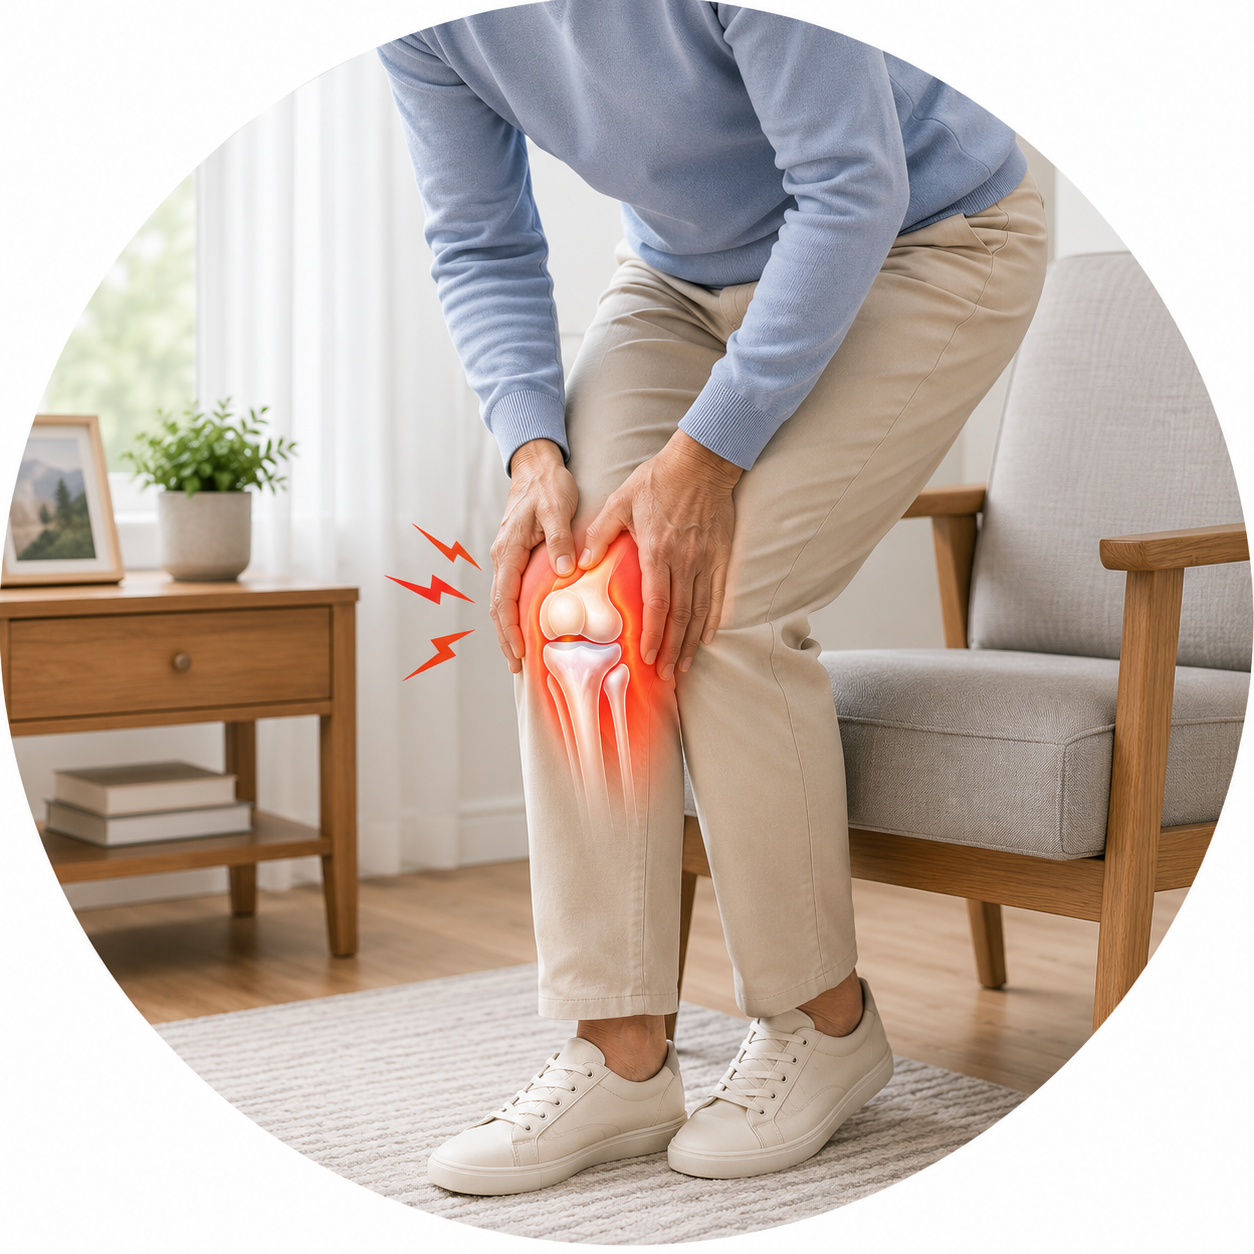
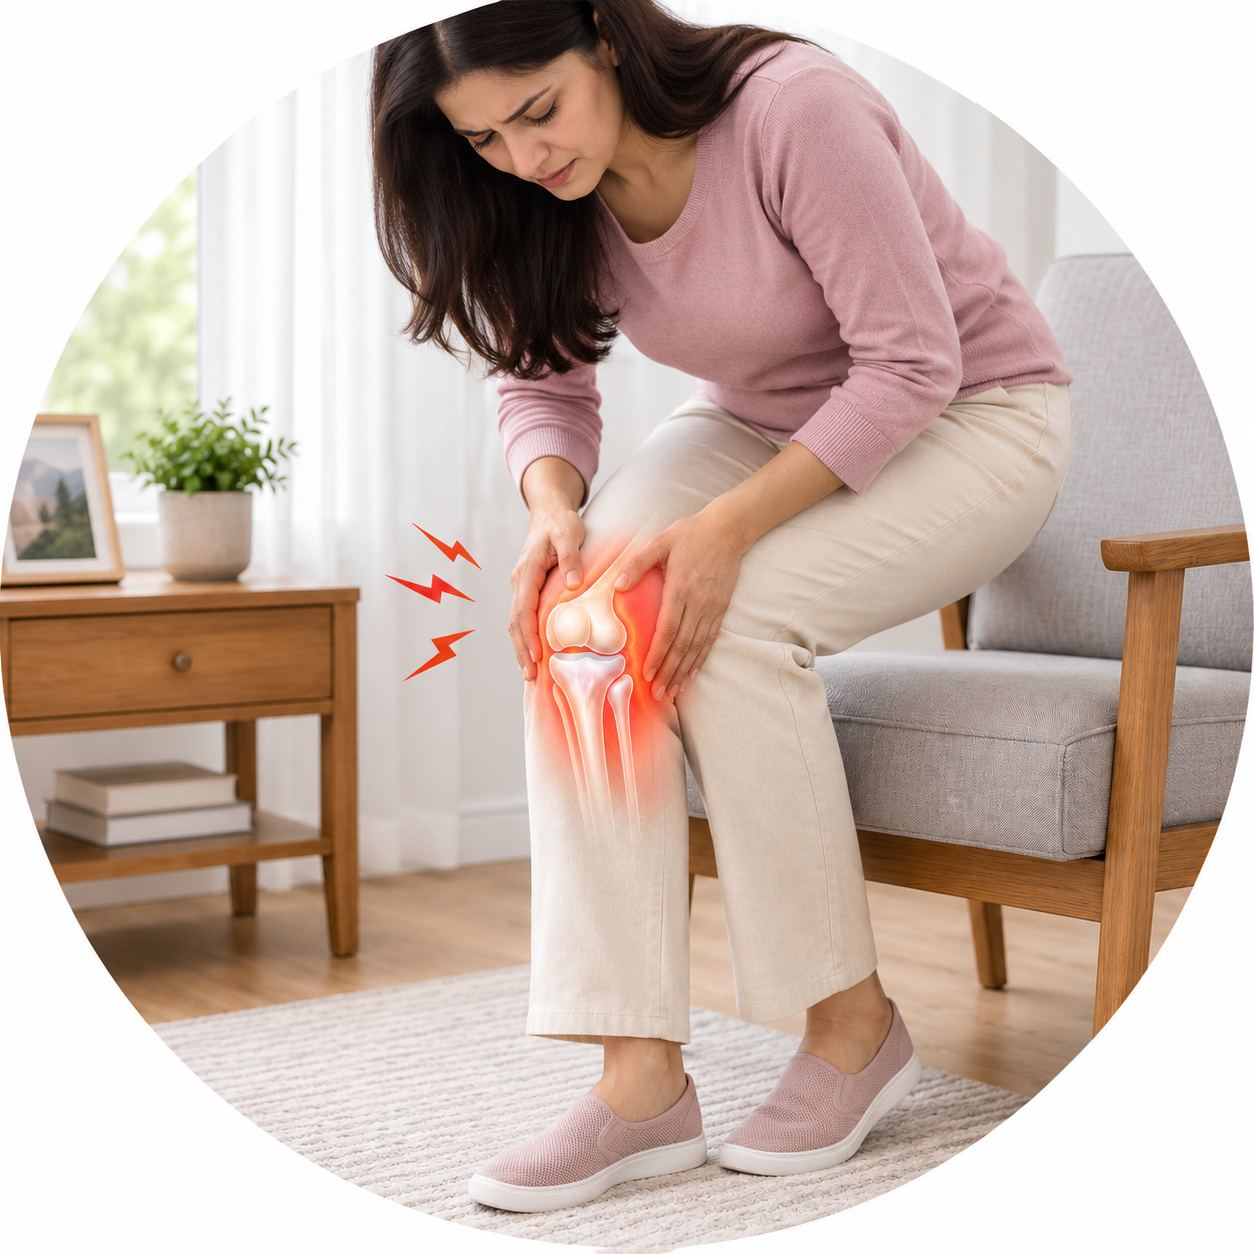
Initial commit

diff --git a/src/pages/Patient.tsx b/src/pages/Patient.tsx
@@ -5,7 +5,7 @@ import Footer from "@/components/layout/Footer";
 import ReferencesSection from "@/components/ReferencesSection";
 import patientLandingBg from "@/assets/patient landing.png";
 import patientLandingMobileBg from "@/assets/patient 2.png";
-import oaComparisonImage from "@/assets/OA.png";
+import oaComparisonImage from "@/assets/OA.jpeg";
 import symptomsImage from "@/assets/symptoms.png";
 import gradeStage1Image from "@/assets/stage 1.png";
 import gradeStage2Image from "@/assets/stage 2.png";
@@ -103,25 +103,25 @@ const oaSymptomHighlights = [
 const grades = [
   {
     k: "Grade I",
-    title: "Mild changes",
+    title: "Mild / Early Changes",
     text: "Early cartilage irritation with minimal pain.",
     image: gradeStage1Image,
   },
   {
     k: "Grade II",
-    title: "Moderate changes",
+    title: "Mild to Moderate Changes",
     text: "Cartilage damage begins; pain may increase with activity.",
     image: gradeStage2Image,
   },
   {
     k: "Grade III",
-    title: "Advanced changes",
+    title: "Moderate to Severe Changes",
     text: "Noticeable cartilage loss and inflammation; mobility reduces.",
     image: gradeStage3Image,
   },
   {
     k: "Grade IV",
-    title: "Severe changes",
+    title: "Severe/ End-stage",
     text: "Joint-space narrowing; significant pain and stiffness.",
     image: gradeStage4Image,
   },
@@ -632,11 +632,11 @@ export default function Patient() {
 
               <div
                 className={cn(
-                  "hidden md:block transition-all duration-700 ease-out delay-100",
+                  "block mt-8 md:mt-0 transition-all duration-700 ease-out delay-100",
                   oaInView ? "opacity-100 translate-y-0" : "opacity-0 translate-y-6",
                 )}
               >
-                <div className="relative md:h-[360px] lg:h-[520px]">
+                <div className="relative h-[280px] sm:h-[340px] md:h-[360px] lg:h-[520px]">
                   <img
                     src={oaComparisonImage}
                     alt="Healthy knee vs osteoarthritis comparison"
@@ -750,7 +750,7 @@ export default function Patient() {
               </div>
             </div>
 
-            <div className="mt-10 grid gap-6 sm:grid-cols-2 lg:grid-cols-4">
+            <div className="mt-10 grid gap-4 sm:gap-6 sm:grid-cols-2 lg:grid-cols-4 lg:gap-4 xl:gap-6">
               {grades.map((g, idx) => (
                 <div
                   key={g.k}
@@ -774,9 +774,9 @@ export default function Patient() {
                       loading="lazy"
                     />
                   </div>
-                  <div className="p-7 flex flex-col flex-1">
-                    <div className="text-sm font-semibold uppercase tracking-[0.18em] text-sky-700">{g.k}</div>
-                    <div className="mt-2 text-lg font-semibold text-slate-900">{g.title}</div>
+                  <div className="p-5 xl:p-6 flex flex-col flex-1">
+                    <div className="text-xs sm:text-sm font-semibold uppercase tracking-[0.18em] text-sky-700">{g.k}</div>
+                    <div className="mt-2 text-[14.5px] sm:text-[15px] xl:text-[17px] font-semibold text-slate-900 whitespace-nowrap tracking-tight">{g.title}</div>
                     <div className="mt-3 text-sm leading-relaxed text-slate-600 sm:text-base">{g.text}</div>
                   </div>
                 </div>
@@ -1117,7 +1117,7 @@ export default function Patient() {
             <div className="mx-auto max-w-4xl text-center mb-10 sm:mb-12">
               <div className="text-[11px] font-semibold tracking-[0.32em] text-sky-700/80 uppercase">PROCEDURAL OVERVIEW</div>
               <h2 className="mt-3 font-display text-2xl sm:text-3xl md:text-4xl font-semibold tracking-tight text-[#0b3a66]">
-                CiploStem® Handling & Administration Guide
+                Allogeneic Bone Marrow-Derived Mesenchymal Stem Cells
               </h2>
               <p className="mt-3 max-w-2xl mx-auto text-sm leading-relaxed text-slate-600 sm:text-base">
                 A comprehensive step-by-step visual overview of storage, preparation, and intra-articular administration.
@@ -1170,13 +1170,13 @@ export default function Patient() {
                 <div className="w-28 h-28 sm:w-32 sm:h-32 mb-6 rounded-full overflow-hidden shadow-lg ring-2 ring-sky-200/60 transition-transform duration-300 group-hover:scale-105 flex items-center justify-center bg-white">
                   <img
                     src={gmpImage}
-                    alt="GMP & GLP Compliant Manufacturing"
+                    alt="GMP Compliant Manufacturing"
                     className="w-full h-full object-cover rounded-full scale-[1.03]"
                   />
                 </div>
 
                 <h3 className="text-base sm:text-lg font-bold uppercase tracking-wider text-[#0b3a66] min-h-[50px] flex items-center justify-center">
-                  GMP & GLP COMPLIANT MANUFACTURING
+                  GMP COMPLIANT MANUFACTURING
                 </h3>
 
                 <div className="w-16 h-0.5 bg-sky-400 my-4 relative rounded-full">
@@ -1184,7 +1184,7 @@ export default function Patient() {
                 </div>
 
                 <p className="text-sm leading-relaxed text-slate-600 font-medium">
-                  Manufactured under state-of-the-art GMP-compliant conditions in GLP-certified laboratories ensuring the highest standards of quality, safety and consistency.<sup>10</sup>
+                  Manufactured under state-of-the-art GMP-compliant conditions ensuring the highest standards of quality, safety and consistency.<sup>10</sup>
                 </p>
               </div>
 
@@ -1232,6 +1232,40 @@ export default function Patient() {
                 <p className="text-sm leading-relaxed text-slate-600 font-medium">
                   Administered as a sterile, single intra-articular injection directly into the knee joint for a convenient and precise treatment.<sup>9,10</sup>
                 </p>
+              </div>
+            </div>
+
+            {/* Regulatory & Quality Abbreviations */}
+            <div className="mt-10 max-w-4xl mx-auto">
+              <div className="rounded-2xl bg-white/90 p-4 sm:p-5 ring-1 ring-sky-200/70 shadow-soft-md backdrop-blur-sm">
+                <div className="grid grid-cols-1 sm:grid-cols-3 gap-3 sm:gap-4">
+                  <div className="group flex items-center gap-3 px-4 py-3.5 rounded-xl bg-sky-50/70 ring-1 ring-sky-200/70 shadow-sm cursor-pointer transition-all duration-300 ease-out hover:-translate-y-1.5 hover:scale-[1.03] hover:bg-white hover:shadow-xl hover:shadow-sky-900/10 hover:ring-2 hover:ring-sky-400">
+                    <span className="shrink-0 px-2.5 py-1 rounded-md bg-[#0b3a66] text-white font-bold text-xs tracking-wider shadow-sm transition-all duration-300 group-hover:bg-[#0284c7] group-hover:scale-105">
+                      DCGI
+                    </span>
+                    <span className="text-xs sm:text-[13px] font-semibold text-slate-700 leading-snug transition-colors duration-300 group-hover:text-[#0b3a66]">
+                      Drugs Controller General of India
+                    </span>
+                  </div>
+
+                  <div className="group flex items-center gap-3 px-4 py-3.5 rounded-xl bg-sky-50/70 ring-1 ring-sky-200/70 shadow-sm cursor-pointer transition-all duration-300 ease-out hover:-translate-y-1.5 hover:scale-[1.03] hover:bg-white hover:shadow-xl hover:shadow-sky-900/10 hover:ring-2 hover:ring-sky-400">
+                    <span className="shrink-0 px-2.5 py-1 rounded-md bg-[#0b3a66] text-white font-bold text-xs tracking-wider shadow-sm transition-all duration-300 group-hover:bg-[#0284c7] group-hover:scale-105">
+                      CDSCO
+                    </span>
+                    <span className="text-xs sm:text-[13px] font-semibold text-slate-700 leading-snug transition-colors duration-300 group-hover:text-[#0b3a66]">
+                      Central Drugs Standard Control Organisation
+                    </span>
+                  </div>
+
+                  <div className="group flex items-center gap-3 px-4 py-3.5 rounded-xl bg-sky-50/70 ring-1 ring-sky-200/70 shadow-sm cursor-pointer transition-all duration-300 ease-out hover:-translate-y-1.5 hover:scale-[1.03] hover:bg-white hover:shadow-xl hover:shadow-sky-900/10 hover:ring-2 hover:ring-sky-400">
+                    <span className="shrink-0 px-2.5 py-1 rounded-md bg-[#0b3a66] text-white font-bold text-xs tracking-wider shadow-sm transition-all duration-300 group-hover:bg-[#0284c7] group-hover:scale-105">
+                      GMP
+                    </span>
+                    <span className="text-xs sm:text-[13px] font-semibold text-slate-700 leading-snug transition-colors duration-300 group-hover:text-[#0b3a66]">
+                      Good Manufacturing Practices
+                    </span>
+                  </div>
+                </div>
               </div>
             </div>
           </Container>

diff --git a/src/components/ReferencesSection.tsx b/src/components/ReferencesSection.tsx
@@ -2,29 +2,29 @@ import { useState } from "react";
 import { ChevronDown, ChevronUp, BookOpen } from "lucide-react";
 
 const references = [
-  "Knee Osteoarthritis. JAMA. 2024;332(22):1954.",
-  "Osteoarthritis: Epidemiology and Burden. Rheumatol Ther. 2022 Feb;9(1):151-174.",
-  "Inflammatory Processes in Knee OA. Front Immunol. 2024 Jun 4;15:1385006.",
-  "Knee OA Pathophysiology. J Pain Res. 2018 Oct 5;11:2189-2196.",
-  "Stem Cell Fundamentals. Orthop Rev (Pavia). 2022 Aug 25;14(3):37498.",
-  "Mesenchymal Stem Cells. Am J Orthop (Belle Mead NJ). 2016;45(5):280-326.",
-  "MSC Differentiation Potential. Appl Sci. 2023;13:10617.",
-  "Orthobiologics in Knee OA. J Arthrosc Surg Sports Med. 2024;5:119-124.",
-  "Gupta PK et al. Clinical Evaluation of Allogenic BMMSCs in Knee OA. Am J Sports Med. 2023;51(9):2254-2266.",
-  "Stempeutics Research Pvt. Ltd. Data on File.",
-  "NIAMS. Osteoarthritis: Overview, Symptoms & Causes. [niams.nih.gov]",
-  "Huffman KF et al. The Critical Role of Physical Activity and Weight Management in Knee and Hip Osteoarthritis. Journal of Rheumatology, 2024. [jrheum.org]",
-  "Arthritis Foundation. Why Weight Loss Matters for Arthritis. [arthritis.org]",
-  "CDC Walking Resources. [Walking | Physical Activity | CDC]",
-  "Mayo Clinic. Walking: Trim Your Waistline, Improve Your Health. [mayoclinic.org]",
-  "NHLBI. Sleep Health. [nhlbi.nih.gov]",
-  "NIH Office of Dietary Supplements. Calcium Fact Sheet for Consumers. [ods.od.nih.gov]",
-  "NIH Office of Dietary Supplements. Calcium Fact Sheet for Health Professionals. [ods.od.nih.gov]",
-  "NIH Office of Dietary Supplements. Vitamin D Fact Sheet for Consumers. [ods.od.nih.gov]",
-  "NIH Office of Dietary Supplements. Vitamin D Fact Sheet for Health Professionals. [ods.od.nih.gov]",
-  "Arthritis Foundation. Why Weight Loss Matters for Arthritis. [arthritis.org]",
-  "Journal of Rheumatology. Physical Activity and Weight Management in Knee and Hip Osteoarthritis. [jrheum.org]",
-  "CDC. Benefits of Physical Activity and Healthy Weight Management."
+  "Voelker R. What is knee osteoarthritis? JAMA. 2024;332(22):1954.",
+  "Al-Saleh JA, Albelooshi AA, Salti AA, Farghaly M, Ghorab AM, Linga S, et al. Burden, treatment patterns and unmet needs of osteoarthritis in Dubai: a retrospective analysis of the Dubai Real-World Claims Database. Rheumatol Ther. 2022;9(1):151-174.",
+  "Damerau A, Rosenow E, Alkhoury D, Buttgereit F, Gaber T. Fibrotic pathways and fibroblast-like synoviocyte phenotypes in osteoarthritis. Front Immunol. 2024;15:1385006.",
+  "Mora JC, Przkora R, Cruz-Almeida Y. Knee osteoarthritis: pathophysiology and current treatment modalities. J Pain Res. 2018;11:2189-2196.",
+  "Poliwoda S, Noor N, Downs E, Schaaf A, Cantwell A, Ganti L, et al. Stem cells: a comprehensive review of origins and emerging clinical roles in medical practice. Orthop Rev (Pavia). 2022;14(3):37498.",
+  "Saltzman BM, Kuhns BD, Weber AE, Yanke A, Nho SJ. Stem cells in orthopedics: a comprehensive guide for the general orthopedist. Am J Orthop (Belle Mead NJ). 2016;45(5):280-326.",
+  "Gherghel R, Macovei LA, Burlui MA, Cardoneanu A, Rezus II, Mihai IR, et al. Osteoarthritis—the role of mesenchymal stem cells in cartilage regeneration. Appl Sci. 2023;13(19):10617.",
+  "Thami T, Kumar P, Gupta A, Patel S. Orthobiologics for knee osteoarthritis: a review of current practice and future directions. J Arthrosc Surg Sports Med. 2024;5(2):119-124.",
+  "Gupta PK, Maheshwari S, Cherian JJ, Goni V, Sharma AK, Tripathy SK, et al. Efficacy and safety of Stempeucel in osteoarthritis of the knee: a phase 3 randomized, double-blind, multicenter, placebo-controlled study. Am J Sports Med. 2023;51(9):2254-2266.",
+  "Stempeutics Research Pvt. Ltd. Data on file.",
+  "National Institute of Arthritis and Musculoskeletal and Skin Diseases (NIAMS). Osteoarthritis: causes, symptoms, diagnosis, and treatment. Bethesda (MD): National Institutes of Health; 2023.",
+  "Huffman KF, Ambrose KR, Nelson AE, Allen KD, Golightly YM, Callahan LF. The critical role of physical activity and weight management in knee and hip osteoarthritis: a narrative review. J Rheumatol. 2024;51(3):224-233.",
+  "Arthritis Foundation. Why weight loss matters for arthritis. Atlanta (GA): Arthritis Foundation; 2023.",
+  "Centers for Disease Control and Prevention (CDC). Walking: physical activity basics. Atlanta (GA): U.S. Department of Health and Human Services; 2023.",
+  "Mayo Clinic Staff. Walking: trim your waistline, improve your health. Rochester (MN): Mayo Foundation for Medical Education and Research; 2023.",
+  "National Heart, Lung, and Blood Institute (NHLBI). Why is sleep important? Bethesda (MD): National Institutes of Health; 2022.",
+  "National Institutes of Health Office of Dietary Supplements. Calcium: fact sheet for consumers. Bethesda (MD): National Institutes of Health; 2022.",
+  "National Institutes of Health Office of Dietary Supplements. Calcium: fact sheet for health professionals. Bethesda (MD): National Institutes of Health; 2022.",
+  "National Institutes of Health Office of Dietary Supplements. Vitamin D: fact sheet for consumers. Bethesda (MD): National Institutes of Health; 2023.",
+  "National Institutes of Health Office of Dietary Supplements. Vitamin D: fact sheet for health professionals. Bethesda (MD): National Institutes of Health; 2023.",
+  "Arthritis Foundation. Nutrition and arthritis: weight loss benefits. Atlanta (GA): Arthritis Foundation; 2023.",
+  "Huffman KF, Ambrose KR, Nelson AE, Allen KD, Golightly YM, Callahan LF. Physical activity and weight management in knee and hip osteoarthritis. J Rheumatol. 2024;51(3):224-233.",
+  "Centers for Disease Control and Prevention (CDC). Benefits of physical activity and healthy weight management. Atlanta (GA): U.S. Department of Health and Human Services; 2023."
 ];
 
 export default function ReferencesSection() {
